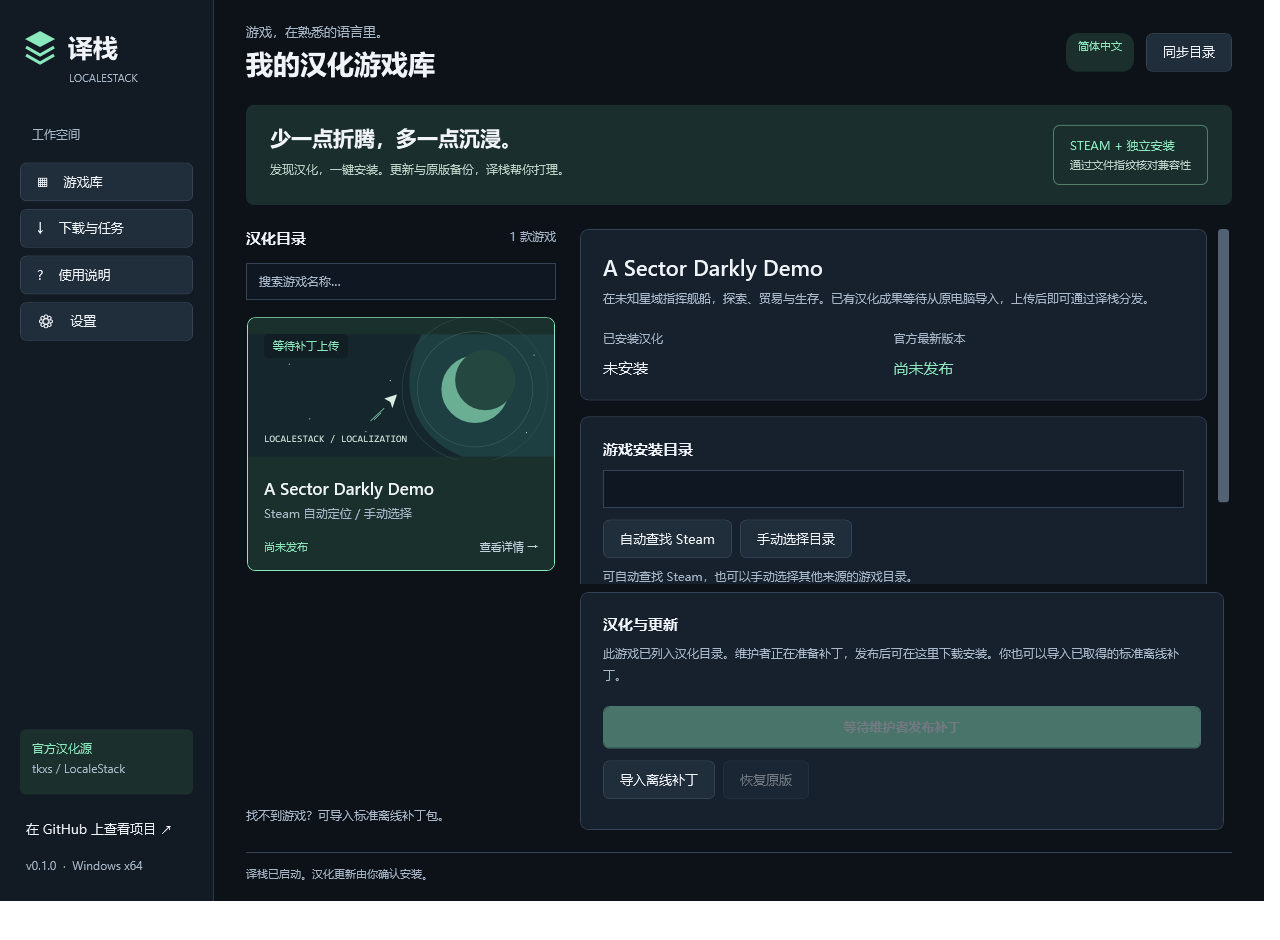
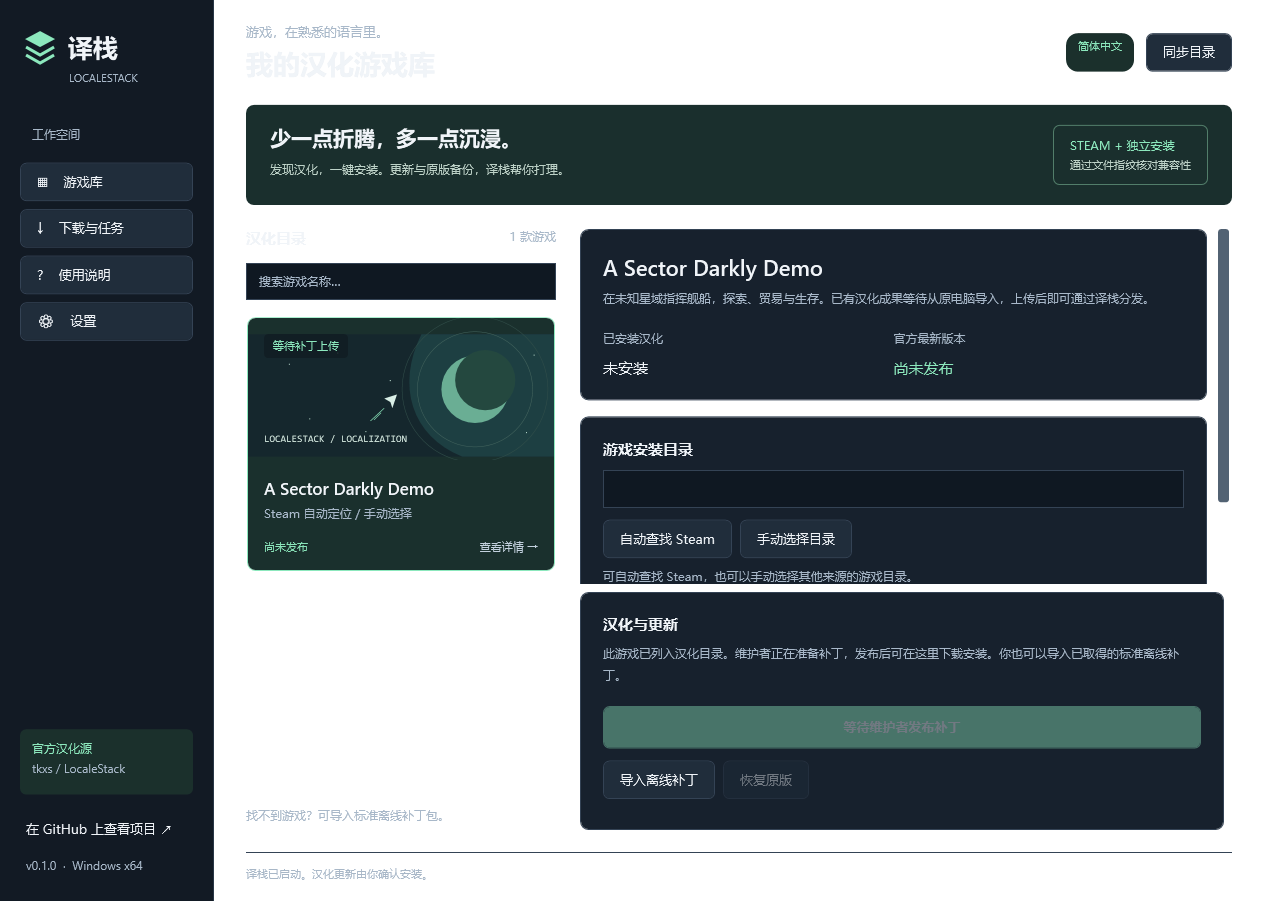
Document release validation and refresh desktop preview

diff --git a/docs/validation.md b/docs/validation.md
@@ -1,0 +1,31 @@
+# 0.1.0 验证记录
+
+验证日期：2026-10-23。验证环境为 Windows x64，.NET 10 SDK，自包含发布的桌面程序。
+
+## 核心回归
+
+`dotnet run --project tests/LocaleStack.Tests -c Release`：42 / 42 通过。
+
+覆盖：独立安装、重复安装、升级与移除旧补丁文件、恢复原版、降级拒绝、原版不匹配、现有汉化被修改、备份损坏、操作互斥、取消准备、安装/升级/恢复故障注入回滚、持久化中断恢复、外部修改保护、文件校验、危险路径与恶意 ZIP、Windows 保留名、Steam 多库与新旧 VDF、Build ID 和来源规则、版本比较、下载缓存、坏哈希、非法重定向、客户端更新元数据。
+
+文件操作测试在隔离的临时目录执行，包括带中文和空格的游戏目录。测试没有修改真实游戏文件。
+
+## 维护者与协议
+
+`scripts/Test-PackageWorkflow.ps1` 已实际执行 capture → pack → verify → inspect → catalog-add → catalog-validate，并核对生成的发布校验值及原版输入未改动。
+
+`scripts/Validate-Schemas.py` 验证所有 Schema、官方目录和多来源配置示例，并验证缺少原版哈希、父级路径、未知字段、独立版误用 Steam Build ID 等反例被拒绝。实际生成的包清单也通过 v1 Schema。
+
+GitHub Actions 的 [首次主分支 CI](https://github.com/tkxs/LocaleStack/actions/runs/39978210730) 已通过构建、42 项核心回归、维护流程和 Schema 验证。
+
+## 桌面与分发
+
+自包含桌面程序已实际启动，游戏库、任务、帮助、设置和最小窗口尺寸均完成启动及渲染检查，退出码为 0。已人工查看界面截图；截图可由 `scripts/Test-Desktop.ps1` 重新生成。
+
+安装版使用 Inno Setup 6.7.3 构建。已安装到工作区隔离目录，核对安装后的 exe 与源发布文件 SHA-256 一致，运行同样的五项桌面检查后卸载，安装与卸载均成功。安装、卸载日志保存在本地 `artifacts/`。
+
+在线官方目录已从实际 GitHub 地址读取成功。下载与更新协议有注入网络测试；真实公开发行附件的可用性应在每次发布后核对。
+
+## 验证边界
+
+本机没有 A Sector Darkly Demo 或旧汉化内容，本轮没有验证真实游戏中的汉化效果或已确认文字修订。核心测试证明文件安装管理流程，不等于所有游戏/版本都已适配。每个游戏包仍需在维护者对应游戏构建中完成运行验证。

diff --git a/CHANGELOG.md b/CHANGELOG.md
@@ -1,0 +1,14 @@
+# 更新记录
+
+## 0.1.0 · 2026-10-23
+
+译栈的首个 Windows x64 版本。
+
+- 游戏库、搜索、任务日志、下载进度、设置与离线模式。
+- Steam 多游戏库定位与手动目录选择；按来源、可选 Build ID 和原版文件指纹匹配补丁。
+- 下载和包内 SHA-256 校验、原版备份、更新、恢复、事务回滚和中断恢复。
+- 标准 `.lspatch` 格式、JSON Schema、维护者 CLI、多来源配置与旧包迁移脚本。
+- GitHub 官方目录、补丁更新检查、客户端新版安装包下载校验。
+- 自包含安装版、便携版、维护工具与 Actions 发布流程。
+
+A Sector Darkly Demo 处于待上传状态，本次没有发布或重新生成该游戏的汉化。小行星菜单“采矿”修订记录待旧补丁导入后应用。
